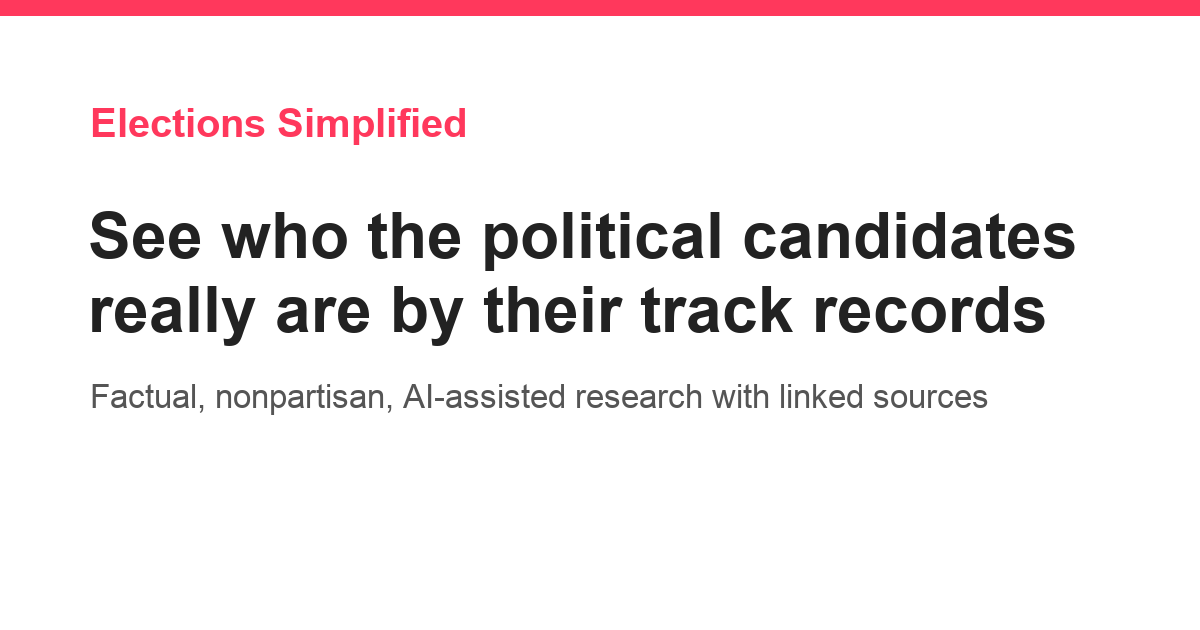
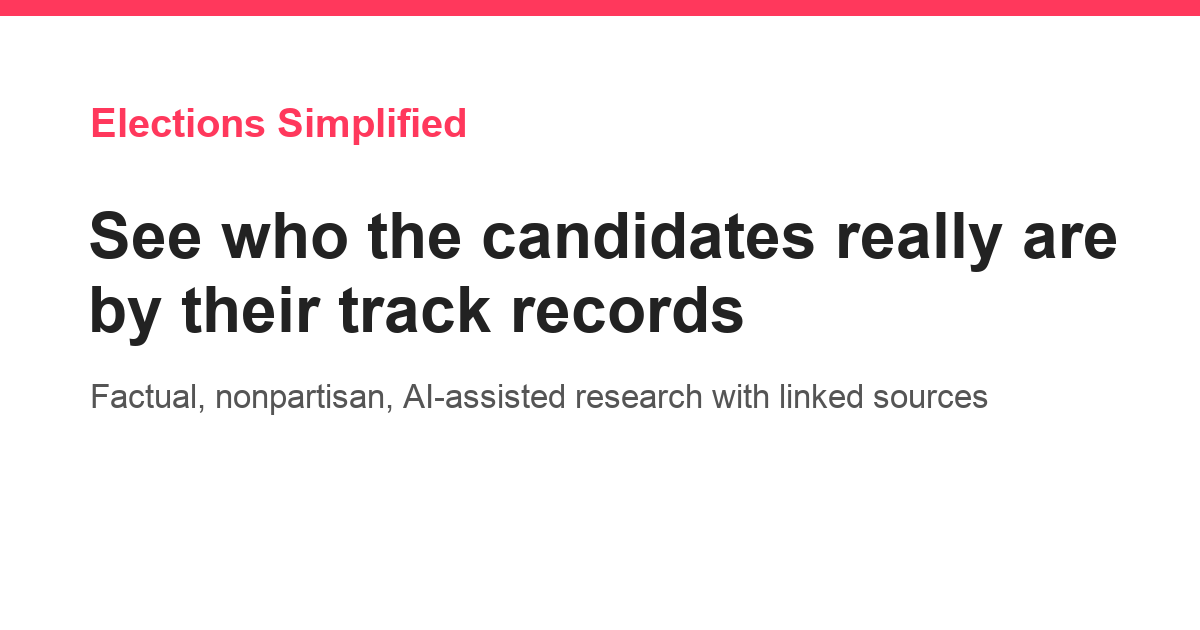
copy: headline back to "See who the candidates really are by their track records"

Changed region(s): [[0.0617, 0.3317, 0.9558, 0.5429]]

diff --git a/frontend/src/lib/pageMeta.ts b/frontend/src/lib/pageMeta.ts
@@ -20,10 +20,10 @@ import { APP_NAME } from "@voteapp/api-client";
 export const SITE_ORIGIN = "https://electionssimplified.com";
 
 const SHARE_IMAGE = `${SITE_ORIGIN}/og-card.png`;
-const SHARE_IMAGE_ALT = `${APP_NAME} — see who the political candidates really are by their track records`;
+const SHARE_IMAGE_ALT = `${APP_NAME} — see who the candidates really are by their track records`;
 
 export const DEFAULT_DESCRIPTION =
-  "See who the political candidates really are by their track records.";
+  "See who the candidates really are by their track records.";
 
 type PageMetaInput = {
   title: string;

diff --git a/frontend/src/pages/HomePage.tsx b/frontend/src/pages/HomePage.tsx
@@ -309,7 +309,7 @@ export function HomePage() {
             a clear step below the wordmark; text-balance stops the centred
             wrap from ragging into a one-word last line. */}
         <h1 className="mt-6 text-balance text-title font-bold">
-          See who the political candidates really are by their track records
+          See who the candidates really are by their track records
         </h1>
         {/* What the service is, where a first-time visitor actually looks.
             Centred with the rest of the masthead — one alignment axis for

diff --git a/frontend/src/pages/HomePage.test.tsx b/frontend/src/pages/HomePage.test.tsx
@@ -84,7 +84,7 @@ describe("HomePage pre-search clickwrap", () => {
     // outline.
     expect(screen.getByText("Elections Simplified")).toBeInTheDocument();
     expect(screen.getByRole("heading", { level: 1 })).toHaveTextContent(
-      /^See who the political candidates really are by their track records$/
+      /^See who the candidates really are by their track records$/
     );
   });
 
